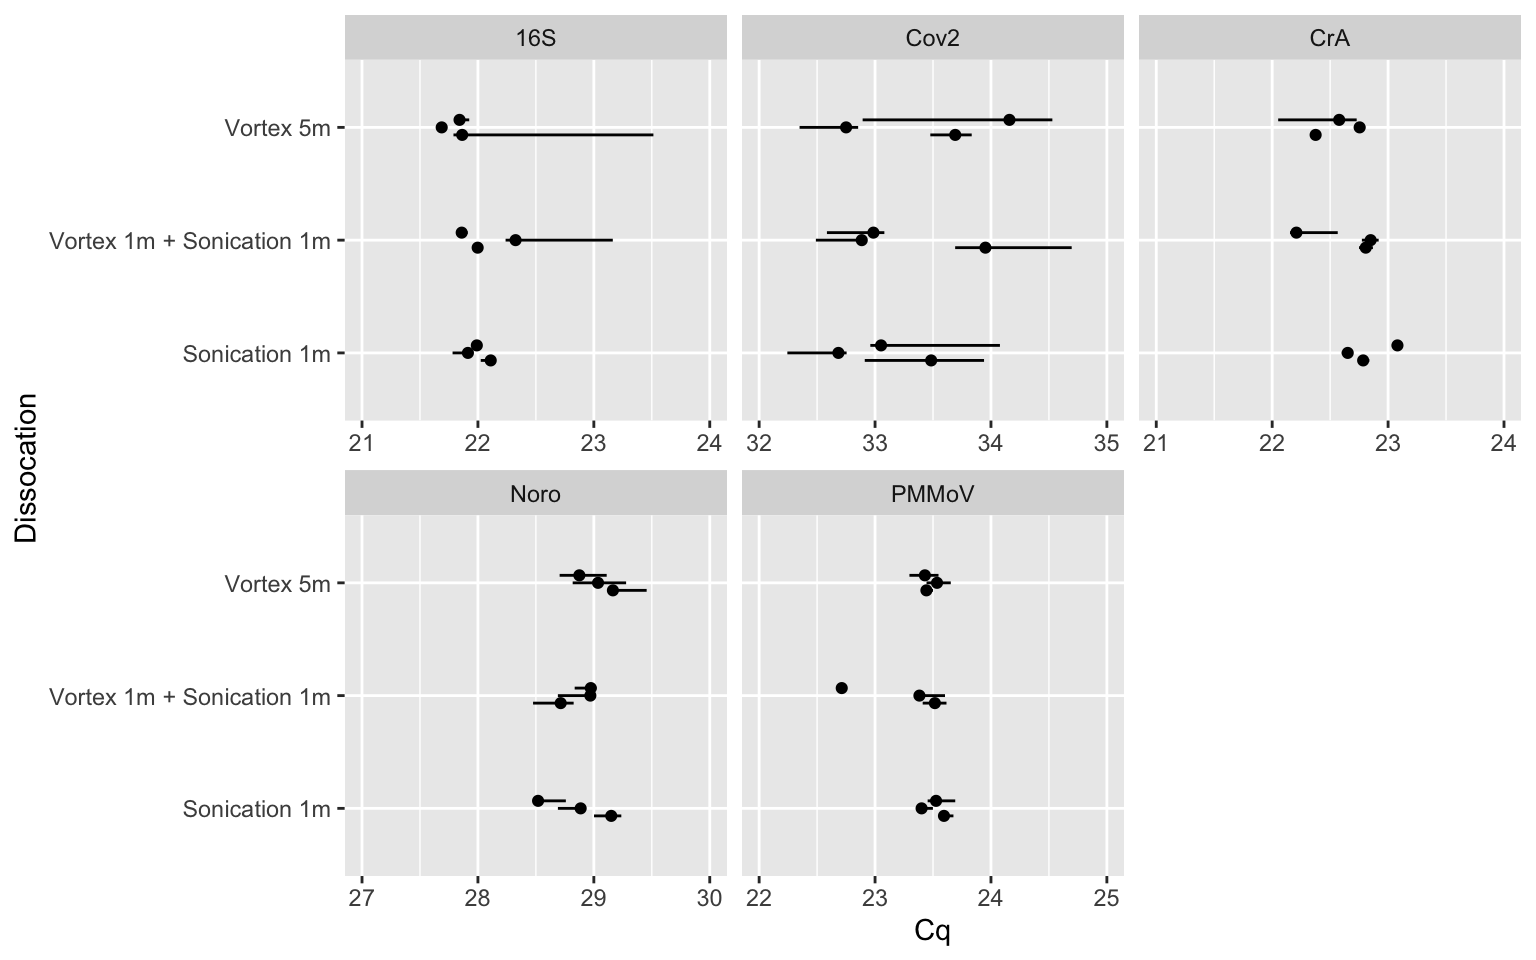
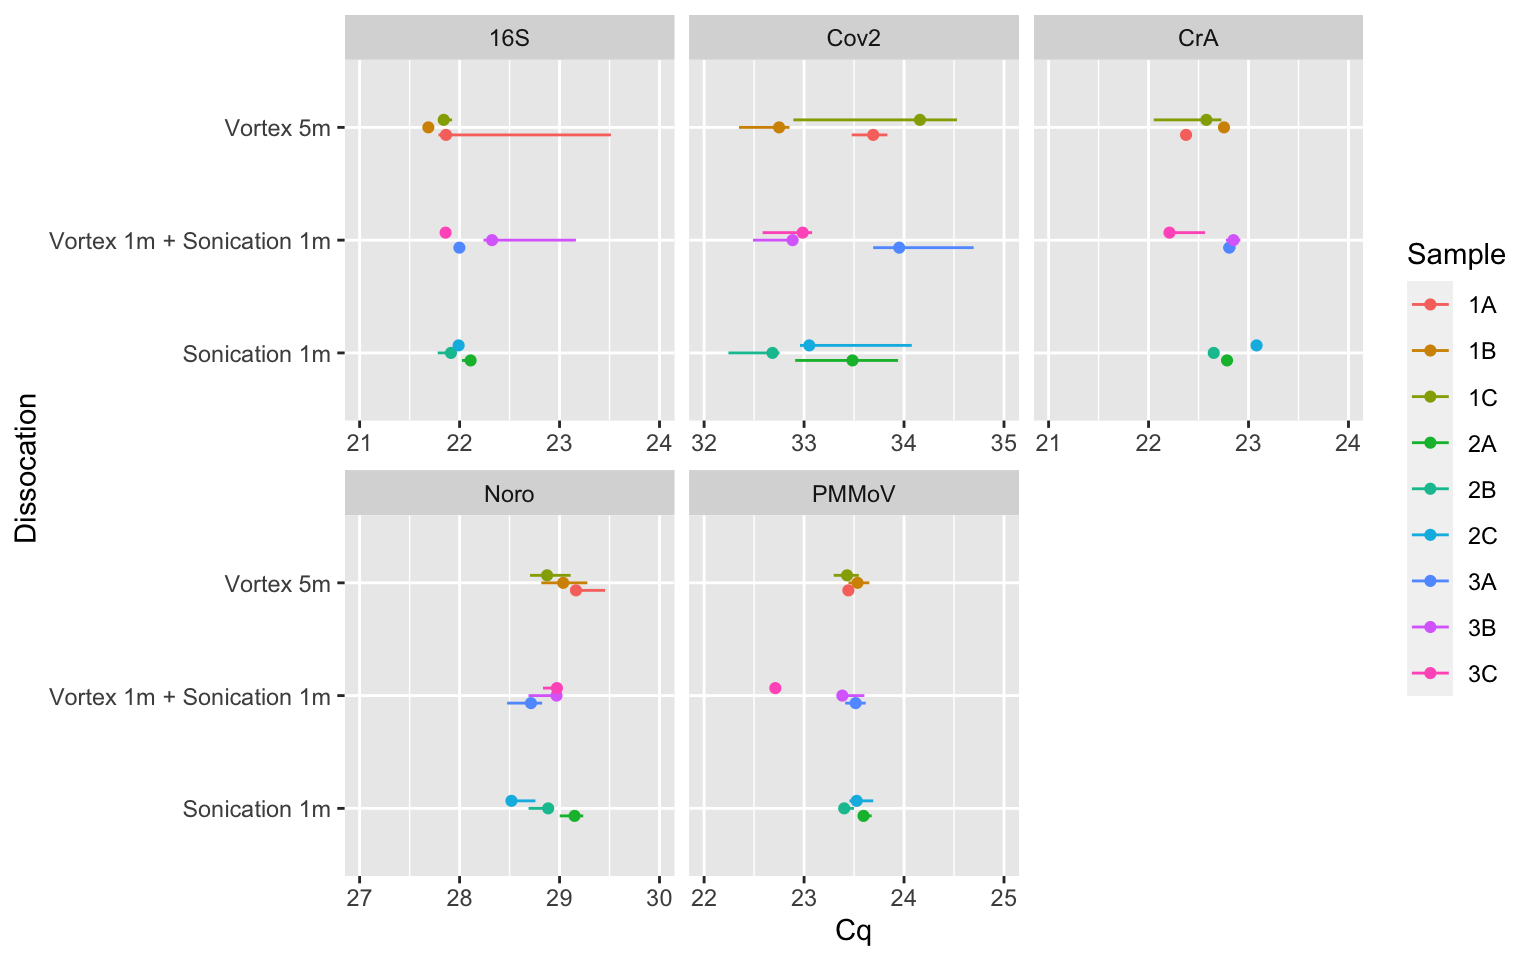
Color by sample

diff --git a/docs/notebooks/2023-10-24-setled-solids-dissociation-test.html b/docs/notebooks/2023-10-24-setled-solids-dissociation-test.html
@@ -632,7 +632,7 @@ $ `Qubit DNA`             &lt;chr&gt; NA, NA</code></pre>
 <span id="cb46-5"><a href="#cb46-5" aria-hidden="true" tabindex="-1"></a>    <span class="at">color =</span> Well <span class="sc">==</span> <span class="dv">7</span>,</span>
 <span id="cb46-6"><a href="#cb46-6" aria-hidden="true" tabindex="-1"></a>    <span class="at">group =</span> Well,</span>
 <span id="cb46-7"><a href="#cb46-7" aria-hidden="true" tabindex="-1"></a>  )) <span class="sc">+</span></span>
-<span id="cb46-8"><a href="#cb46-8" aria-hidden="true" tabindex="-1"></a>  <span class="fu">scale_y_log10</span>()<span class="co">#limits = c(1e-3, 1e1))</span></span></code><button title="Copy to Clipboard" class="code-copy-button"><i class="bi"></i></button></pre></div>
+<span id="cb46-8"><a href="#cb46-8" aria-hidden="true" tabindex="-1"></a>  <span class="fu">scale_y_log10</span>() <span class="co"># limits = c(1e-3, 1e1))</span></span></code><button title="Copy to Clipboard" class="code-copy-button"><i class="bi"></i></button></pre></div>
 <div class="cell-output-display">
 <p><img src="2023-10-24-setled-solids-dissociation-test_files/figure-html/unnamed-chunk-13-1.png" class="img-fluid" width="672"></p>
 </div>
@@ -675,18 +675,18 @@ $ `Qubit DNA`             &lt;chr&gt; NA, NA</code></pre>
 <p>Using <code>ggh4x</code> to fix the scales to have the same spacing. Currently doing manually, but should automate.</p>
 <div class="cell">
 <div class="sourceCode cell-code" id="cb51"><pre class="sourceCode r code-with-copy"><code class="sourceCode r"><span id="cb51-1"><a href="#cb51-1" aria-hidden="true" tabindex="-1"></a>scales <span class="ot">&lt;-</span> <span class="fu">list</span>(</span>
-<span id="cb51-2"><a href="#cb51-2" aria-hidden="true" tabindex="-1"></a>               <span class="fu">scale_x_continuous</span>(<span class="at">limits=</span><span class="fu">c</span>(<span class="dv">21</span>,<span class="dv">24</span>)),</span>
-<span id="cb51-3"><a href="#cb51-3" aria-hidden="true" tabindex="-1"></a>               <span class="fu">scale_x_continuous</span>(<span class="at">limits=</span><span class="fu">c</span>(<span class="dv">32</span>,<span class="dv">35</span>)),</span>
-<span id="cb51-4"><a href="#cb51-4" aria-hidden="true" tabindex="-1"></a>               <span class="fu">scale_x_continuous</span>(<span class="at">limits=</span><span class="fu">c</span>(<span class="dv">21</span>,<span class="dv">24</span>)),</span>
-<span id="cb51-5"><a href="#cb51-5" aria-hidden="true" tabindex="-1"></a>               <span class="fu">scale_x_continuous</span>(<span class="at">limits=</span><span class="fu">c</span>(<span class="dv">27</span>,<span class="dv">30</span>)),</span>
-<span id="cb51-6"><a href="#cb51-6" aria-hidden="true" tabindex="-1"></a>               <span class="fu">scale_x_continuous</span>(<span class="at">limits=</span><span class="fu">c</span>(<span class="dv">22</span>,<span class="dv">25</span>))</span>
-<span id="cb51-7"><a href="#cb51-7" aria-hidden="true" tabindex="-1"></a>               )</span>
+<span id="cb51-2"><a href="#cb51-2" aria-hidden="true" tabindex="-1"></a>  <span class="fu">scale_x_continuous</span>(<span class="at">limits =</span> <span class="fu">c</span>(<span class="dv">21</span>, <span class="dv">24</span>)),</span>
+<span id="cb51-3"><a href="#cb51-3" aria-hidden="true" tabindex="-1"></a>  <span class="fu">scale_x_continuous</span>(<span class="at">limits =</span> <span class="fu">c</span>(<span class="dv">32</span>, <span class="dv">35</span>)),</span>
+<span id="cb51-4"><a href="#cb51-4" aria-hidden="true" tabindex="-1"></a>  <span class="fu">scale_x_continuous</span>(<span class="at">limits =</span> <span class="fu">c</span>(<span class="dv">21</span>, <span class="dv">24</span>)),</span>
+<span id="cb51-5"><a href="#cb51-5" aria-hidden="true" tabindex="-1"></a>  <span class="fu">scale_x_continuous</span>(<span class="at">limits =</span> <span class="fu">c</span>(<span class="dv">27</span>, <span class="dv">30</span>)),</span>
+<span id="cb51-6"><a href="#cb51-6" aria-hidden="true" tabindex="-1"></a>  <span class="fu">scale_x_continuous</span>(<span class="at">limits =</span> <span class="fu">c</span>(<span class="dv">22</span>, <span class="dv">25</span>))</span>
+<span id="cb51-7"><a href="#cb51-7" aria-hidden="true" tabindex="-1"></a>)</span>
 <span id="cb51-8"><a href="#cb51-8" aria-hidden="true" tabindex="-1"></a>tidy_data <span class="sc">|&gt;</span></span>
 <span id="cb51-9"><a href="#cb51-9" aria-hidden="true" tabindex="-1"></a>  <span class="fu">filter</span>(Task <span class="sc">==</span> <span class="st">"UNKNOWN"</span>) <span class="sc">|&gt;</span></span>
 <span id="cb51-10"><a href="#cb51-10" aria-hidden="true" tabindex="-1"></a>  <span class="fu">ggplot</span>(<span class="at">mapping =</span> <span class="fu">aes</span>(</span>
 <span id="cb51-11"><a href="#cb51-11" aria-hidden="true" tabindex="-1"></a>    <span class="at">x =</span> Cq,</span>
 <span id="cb51-12"><a href="#cb51-12" aria-hidden="true" tabindex="-1"></a>    <span class="at">y =</span> Dissocation,</span>
-<span id="cb51-13"><a href="#cb51-13" aria-hidden="true" tabindex="-1"></a>    <span class="at">group =</span> Sample,</span>
+<span id="cb51-13"><a href="#cb51-13" aria-hidden="true" tabindex="-1"></a>    <span class="at">color =</span> Sample,</span>
 <span id="cb51-14"><a href="#cb51-14" aria-hidden="true" tabindex="-1"></a>  )) <span class="sc">+</span></span>
 <span id="cb51-15"><a href="#cb51-15" aria-hidden="true" tabindex="-1"></a>  <span class="fu">stat_summary</span>(</span>
 <span id="cb51-16"><a href="#cb51-16" aria-hidden="true" tabindex="-1"></a>    <span class="at">fun.min =</span> min,</span>

diff --git a/docs/index.html b/docs/index.html
@@ -145,7 +145,7 @@ ul.task-list li input[type="checkbox"] {
 
 <div class="quarto-listing quarto-listing-container-default" id="listing-listing">
 <div class="list quarto-listing-default">
-<div class="quarto-post image-right" data-index="0" data-listing-date-sort="1698120000000" data-listing-file-modified-sort="1698178336147" data-listing-date-modified-sort="NaN" data-listing-reading-time-sort="4">
+<div class="quarto-post image-right" data-index="0" data-listing-date-sort="1698120000000" data-listing-file-modified-sort="1698178988474" data-listing-date-modified-sort="NaN" data-listing-reading-time-sort="4">
 <div class="thumbnail">
 <p><a href="./notebooks/2023-10-24-setled-solids-dissociation-test.html"> <p class="card-img-top"><img src="notebooks/2023-10-24-setled-solids-dissociation-test_files/figure-html/unnamed-chunk-9-1.png"  class="thumbnail-image card-img"/></p> </a></p>
 </div>
